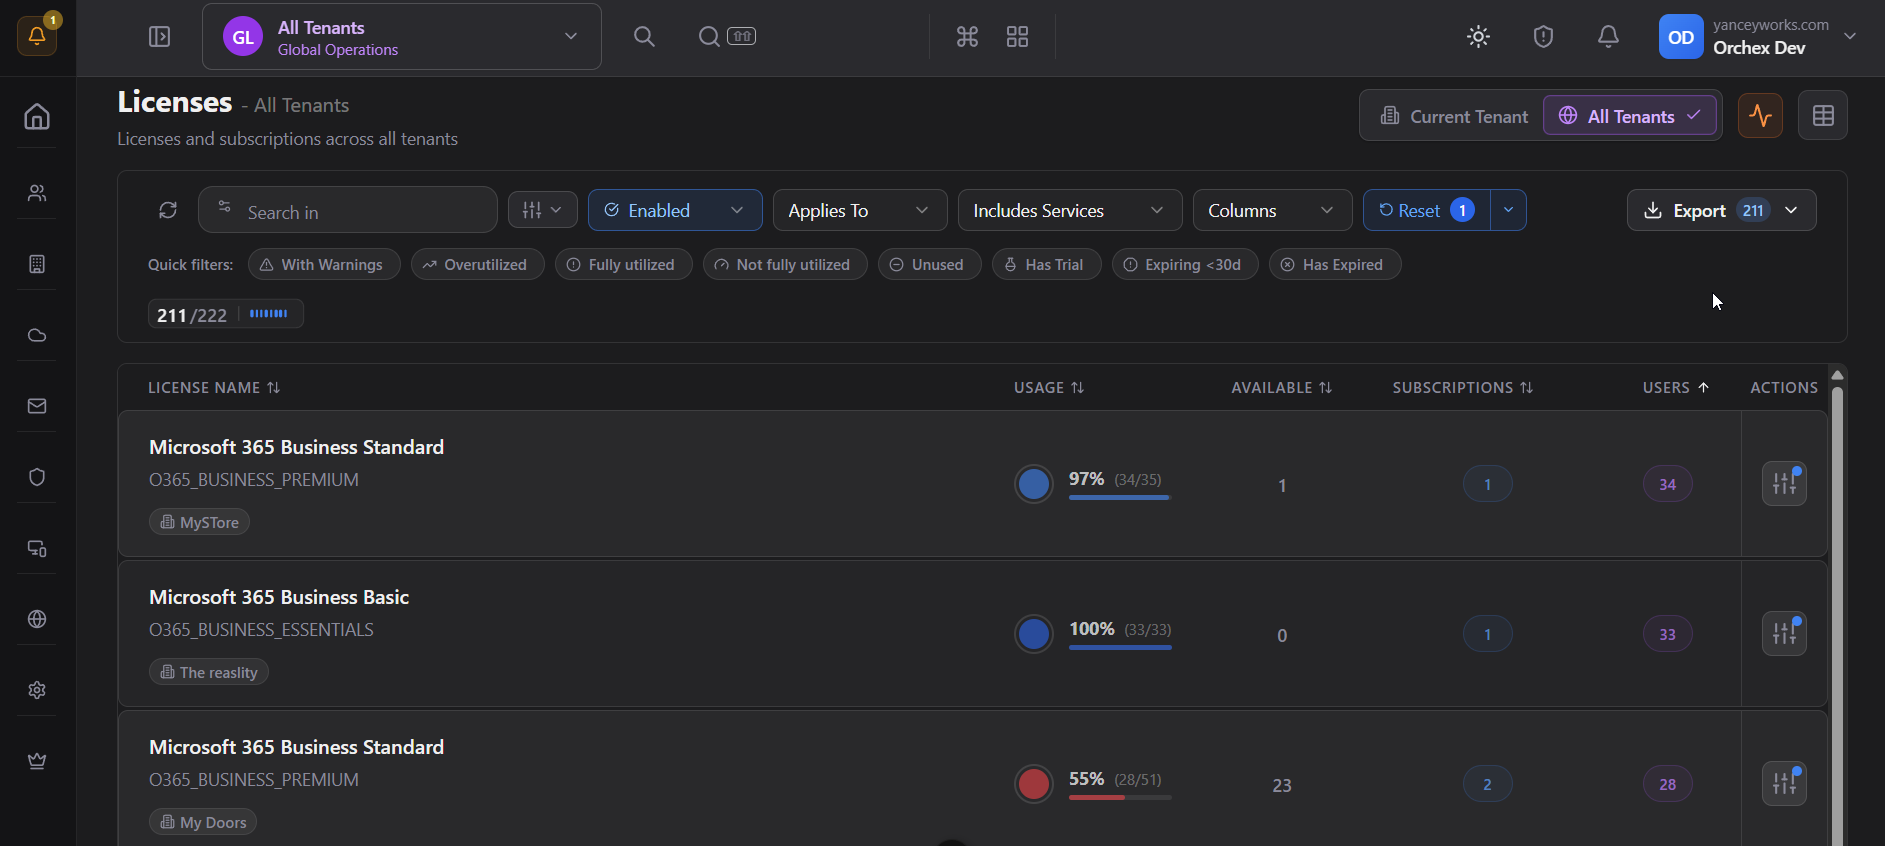
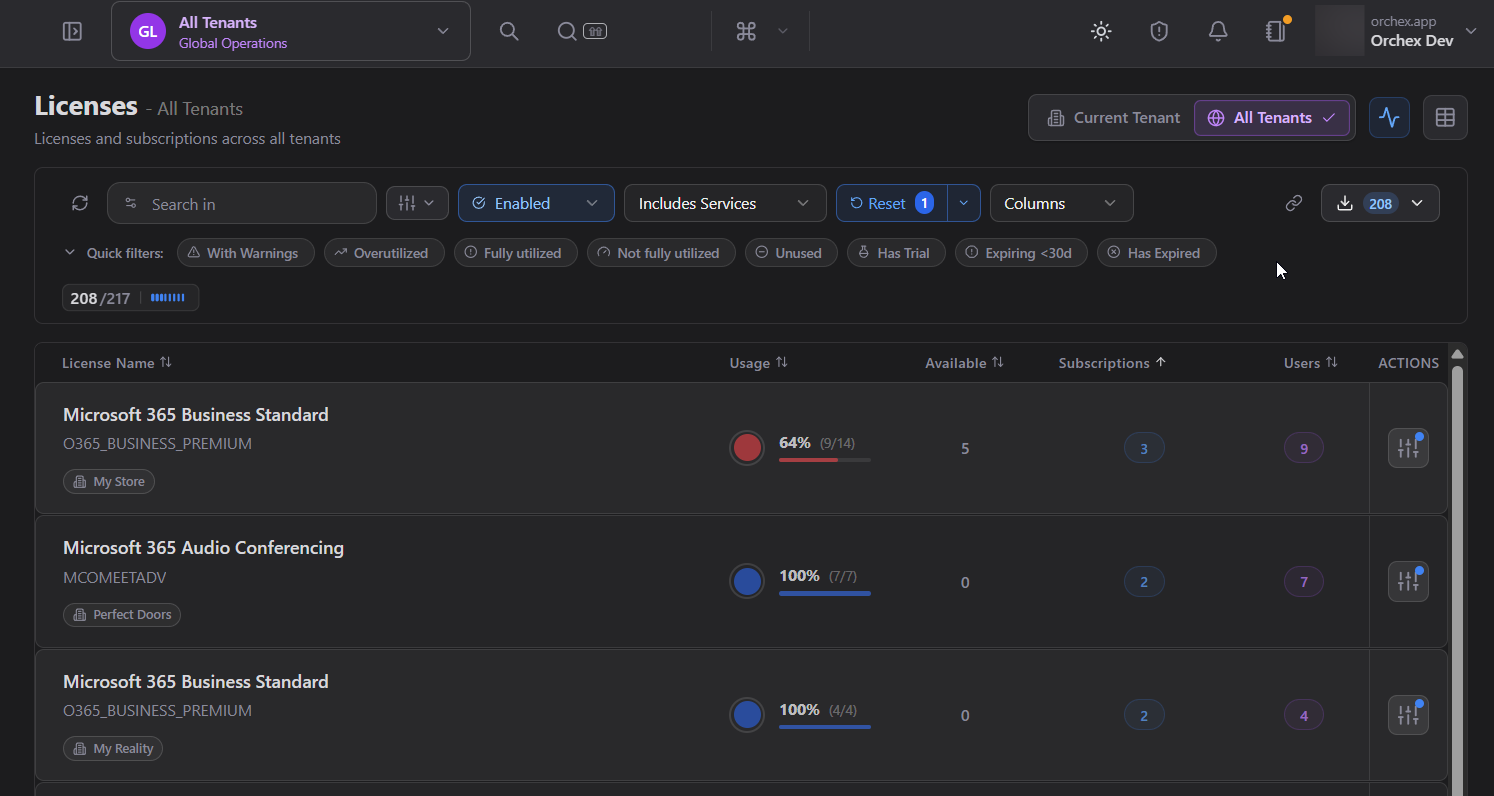
Drop the stale Licenses screenshot and take over its name
The old shot came from a different tenant and was still being deployed at
/images/Licenses.png even though nothing linked to it. Remove it and give
the name to the current All Tenants capture.

diff --git a/src/App.vue b/src/App.vue
@@ -321,7 +321,7 @@
             </div>
           </div>
           <div class="feature-wide-img" style="flex: 1.89">
-            <img src="/images/Licenses_v1.png" alt="ORCHEX License Management — usage, availability and seats per SKU" />
+            <img src="/images/Licenses.png" alt="ORCHEX License Management — usage, availability and seats per SKU" />
             <div class="feature-sub-caption">
               <strong>Licenses — usage, availability and seats per SKU</strong>
             </div>
